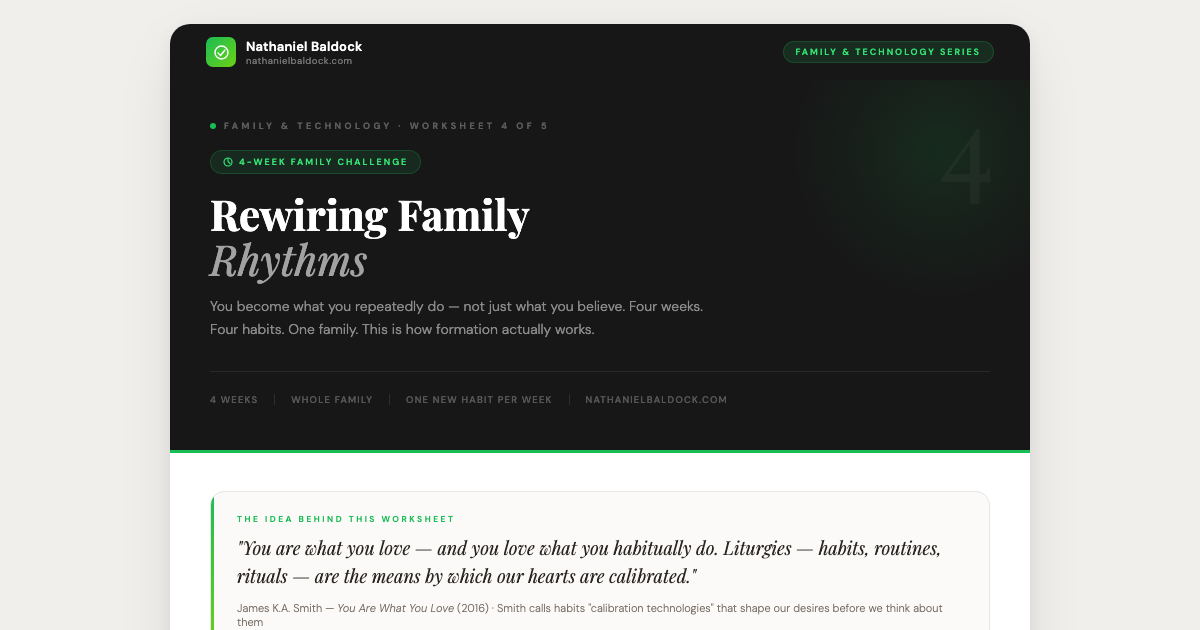
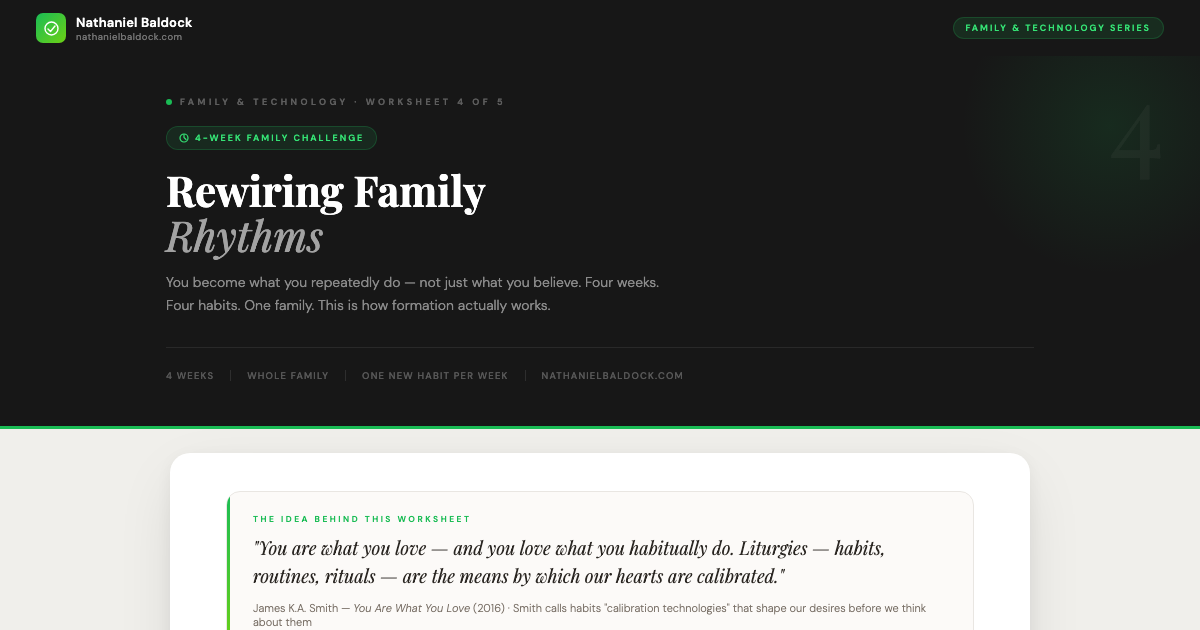
Worksheets: full-width header/hero like articles, narrow body content
Restructure all 11 worksheets so header and hero span full viewport width
(like article pages) while body stays in centered card for readability.
Update thumbnails to reflect new layout.

Made-with: Cursor

diff --git a/client/public/worksheets/rewiring-family-rhythms.html b/client/public/worksheets/rewiring-family-rhythms.html
@@ -46,9 +46,11 @@
 }
 
 html{background:#f0efeb;}
-body{font-family:var(--font-sans);color:var(--fg);padding:24px 16px 48px;}
+body{font-family:var(--font-sans);color:var(--fg);padding:0;}
 
-.page{max-width:860px;margin:0 auto;background:var(--bg);border-radius:20px;overflow:hidden;box-shadow:0 20px 64px -12px rgba(0,0,0,0.13),0 4px 16px rgba(0,0,0,0.05);}
+/* Full-width header + hero (like articles) */
+.worksheet-top{width:100%;}
+.page{max-width:860px;margin:24px auto 48px;padding:0 16px;background:var(--bg);border-radius:20px;overflow:hidden;box-shadow:0 20px 64px -12px rgba(0,0,0,0.13),0 4px 16px rgba(0,0,0,0.05);}
 
 /* SITE HEADER */
 .site-hdr{background:var(--dark);padding:13px 36px;display:flex;align-items:center;justify-content:space-between;}
@@ -58,8 +60,9 @@ body{font-family:var(--font-sans);color:var(--fg);padding:24px 16px 48px;}
 .logo-sub{font-size:9.5px;color:rgba(255,255,255,.4);letter-spacing:.5px;}
 .hdr-badge{background:rgba(34,197,94,.12);border:1px solid rgba(34,197,94,.2);color:hsl(142,76%,55%);font-size:9px;font-weight:600;letter-spacing:2px;text-transform:uppercase;padding:4px 12px;border-radius:20px;}
 
-/* HERO — green accent for this one (positive, action-oriented) */
-.hero{background:var(--dark);padding:40px 40px 44px;position:relative;overflow:hidden;border-bottom:3px solid var(--green);}
+/* HERO — full-width like articles */
+.hero{background:var(--dark);padding:40px 24px 44px;position:relative;overflow:hidden;border-bottom:3px solid var(--green);}
+.hero-inner{max-width:900px;margin:0 auto;padding:0 16px;}
 .hero::before{content:'';position:absolute;top:-80px;right:-60px;width:300px;height:300px;border-radius:50%;background:radial-gradient(circle,hsl(142,76%,42%,.12) 0%,transparent 70%);pointer-events:none;}
 .hero-num{font-family:var(--font-serif);font-size:110px;font-weight:400;color:rgba(255,255,255,.04);position:absolute;top:8px;right:40px;line-height:1;user-select:none;letter-spacing:-4px;}
 .hero-series{font-size:9px;font-weight:600;letter-spacing:3.5px;text-transform:uppercase;color:rgba(255,255,255,.3);margin-bottom:18px;display:flex;align-items:center;gap:8px;}
@@ -213,8 +216,7 @@ hr.div{border:none;border-top:1px solid var(--border);margin:28px 0;}
 </style>
 </head>
 <body>
-<div class="page">
-
+<div class="worksheet-top">
 <!-- SITE HEADER -->
 <div class="site-hdr">
   <div class="logo-row">
@@ -227,6 +229,7 @@ hr.div{border:none;border-top:1px solid var(--border);margin:28px 0;}
 <!-- HERO -->
 <div class="hero">
   <div class="hero-num">4</div>
+  <div class="hero-inner">
   <div class="hero-series"><div class="s-dot"></div>Family &amp; Technology · Worksheet 4 of 5</div>
   <div class="hero-pill">
     <svg width="10" height="10" viewBox="0 0 10 10" fill="none"><path d="M5 1.5v3l2 2" stroke="currentColor" stroke-width="1.2" stroke-linecap="round"/><circle cx="5" cy="5" r="4" stroke="currentColor" stroke-width="1.2"/></svg>
@@ -240,8 +243,11 @@ hr.div{border:none;border-top:1px solid var(--border);margin:28px 0;}
     <span class="mi">One new habit per week</span><div class="msep"></div>
     <span class="mi">nathanielbaldock.com</span>
   </div>
+  </div><!-- /hero-inner -->
 </div>
+</div><!-- /worksheet-top -->
 
+<div class="page">
 <!-- BODY -->
 <div class="body">
 

diff --git a/client/public/worksheets/verify-method.html b/client/public/worksheets/verify-method.html
@@ -47,9 +47,10 @@
 }
 
 html{background:hsl(35,20%,93%);}
-body{font-family:var(--font-sans);color:var(--fg);padding:24px 16px 48px;}
+body{font-family:var(--font-sans);color:var(--fg);padding:0;}
 
-.page{max-width:840px;margin:0 auto;background:var(--bg);border-radius:20px;overflow:hidden;box-shadow:0 20px 64px -12px rgba(0,0,0,0.13),0 4px 16px rgba(0,0,0,0.05);}
+.worksheet-top{width:100%;}
+.page{max-width:840px;margin:24px auto 48px;padding:0 16px;background:var(--bg);border-radius:20px;overflow:hidden;box-shadow:0 20px 64px -12px rgba(0,0,0,0.13),0 4px 16px rgba(0,0,0,0.05);}
 
 /* ── SITE HEADER — identical to rest of series ── */
 .site-hdr{background:var(--dark);padding:13px 36px;display:flex;align-items:center;justify-content:space-between;}
@@ -334,7 +335,7 @@ hr.div{border:none;border-top:1px solid var(--border);margin:28px 0;}
 </style>
 </head>
 <body>
-<div class="page">
+<div class="worksheet-top">
 
 <!-- SITE HEADER — identical brand wrapper -->
 <div class="site-hdr">
@@ -374,7 +375,9 @@ hr.div{border:none;border-top:1px solid var(--border);margin:28px 0;}
     <span class="mi">nathanielbaldock.com</span>
   </div>
 </div>
+</div><!-- /worksheet-top -->
 
+<div class="page">
 <!-- BODY -->
 <div class="body">
 

diff --git a/client/public/worksheets/attachment-audit.html b/client/public/worksheets/attachment-audit.html
@@ -44,9 +44,10 @@
 }
 
 html{background:#f0efeb;}
-body{font-family:var(--font-sans);color:var(--fg);padding:24px 16px 48px;min-height:100vh;}
+body{font-family:var(--font-sans);color:var(--fg);padding:0;min-height:100vh;}
 
-.page{max-width:860px;margin:0 auto;background:var(--bg);border-radius:20px;overflow:hidden;box-shadow:0 20px 64px -12px rgba(0,0,0,0.13),0 4px 16px rgba(0,0,0,0.05);}
+.worksheet-top{width:100%;}
+.page{max-width:860px;margin:24px auto 48px;padding:0 16px;background:var(--bg);border-radius:20px;overflow:hidden;box-shadow:0 20px 64px -12px rgba(0,0,0,0.13),0 4px 16px rgba(0,0,0,0.05);}
 
 /* ── SITE HEADER ── */
 .site-hdr{background:var(--dark-hdr);padding:13px 36px;display:flex;align-items:center;justify-content:space-between;}
@@ -251,7 +252,7 @@ hr.div{border:none;border-top:1px solid var(--border);margin:28px 0;}
 </style>
 </head>
 <body>
-<div class="page">
+<div class="worksheet-top">
 
 <!-- SITE HEADER -->
 <div class="site-hdr">
@@ -287,7 +288,9 @@ hr.div{border:none;border-top:1px solid var(--border);margin:28px 0;}
     <span class="meta-item">nathanielbaldock.com</span>
   </div>
 </div>
+</div><!-- /worksheet-top -->
 
+<div class="page">
 <!-- BODY -->
 <div class="body">
 

diff --git a/client/public/worksheets/prompt-engineering.html b/client/public/worksheets/prompt-engineering.html
@@ -45,9 +45,10 @@
 }
 
 html{background:hsl(35,20%,93%);}
-body{font-family:var(--font-sans);color:var(--fg);padding:24px 16px 48px;}
+body{font-family:var(--font-sans);color:var(--fg);padding:0;}
 
-.page{max-width:840px;margin:0 auto;background:var(--bg);border-radius:20px;overflow:hidden;box-shadow:0 20px 64px -12px rgba(0,0,0,0.13),0 4px 16px rgba(0,0,0,0.05);}
+.worksheet-top{width:100%;}
+.page{max-width:840px;margin:24px auto 48px;padding:0 16px;background:var(--bg);border-radius:20px;overflow:hidden;box-shadow:0 20px 64px -12px rgba(0,0,0,0.13),0 4px 16px rgba(0,0,0,0.05);}
 
 /* ── SITE HEADER — identical brand wrapper ── */
 .site-hdr{background:var(--dark);padding:13px 36px;display:flex;align-items:center;justify-content:space-between;}
@@ -319,7 +320,7 @@ hr.div{border:none;border-top:1px solid var(--border);margin:28px 0;}
 </style>
 </head>
 <body>
-<div class="page">
+<div class="worksheet-top">
 
 <!-- SITE HEADER -->
 <div class="site-hdr">
@@ -352,7 +353,9 @@ hr.div{border:none;border-top:1px solid var(--border);margin:28px 0;}
     <span class="mi">nathanielbaldock.com</span>
   </div>
 </div>
+</div><!-- /worksheet-top -->
 
+<div class="page">
 <!-- BODY -->
 <div class="body">
 

diff --git a/client/public/worksheets/family-ai-agreement.html b/client/public/worksheets/family-ai-agreement.html
@@ -41,22 +41,10 @@
 }
 
 html{background:#f0efeb;}
-body{
-  font-family:var(--font-sans);
-  color:var(--fg);
-  padding:24px 16px 48px;
-  min-height:100vh;
-}
+body{font-family:var(--font-sans);color:var(--fg);padding:0;min-height:100vh;}
 
-/* PAGE WRAPPER */
-.page{
-  max-width:860px;
-  margin:0 auto;
-  background:var(--bg);
-  border-radius:20px;
-  overflow:hidden;
-  box-shadow:0 20px 64px -12px rgba(0,0,0,0.13),0 4px 16px rgba(0,0,0,0.05);
-}
+.worksheet-top{width:100%;}
+.page{max-width:860px;margin:24px auto 48px;padding:0 16px;background:var(--bg);border-radius:20px;overflow:hidden;box-shadow:0 20px 64px -12px rgba(0,0,0,0.13),0 4px 16px rgba(0,0,0,0.05);}
 
 /* ── SITE HEADER ── */
 .site-hdr{
@@ -332,8 +320,7 @@ hr.div{border:none;border-top:1px solid var(--border);margin:28px 0;}
 </style>
 </head>
 <body>
-<div class="page">
-
+<div class="worksheet-top">
 <!-- SITE HEADER -->
 <div class="site-hdr">
   <div class="logo-row">
@@ -368,7 +355,9 @@ hr.div{border:none;border-top:1px solid var(--border);margin:28px 0;}
     <span class="meta-item">nathanielbaldock.com</span>
   </div>
 </div>
+</div><!-- /worksheet-top -->
 
+<div class="page">
 <!-- BODY -->
 <div class="body">
 

diff --git a/client/public/worksheets/what-is-school-for.html b/client/public/worksheets/what-is-school-for.html
@@ -33,9 +33,10 @@
 }
 
 html{background:hsl(35,20%,93%);}
-body{font-family:var(--font-sans);color:var(--fg);padding:24px 16px 48px;}
+body{font-family:var(--font-sans);color:var(--fg);padding:0;}
 
-.page{max-width:840px;margin:0 auto;background:var(--bg);border-radius:20px;overflow:hidden;box-shadow:0 20px 64px -12px rgba(0,0,0,0.13),0 4px 16px rgba(0,0,0,0.05);}
+.worksheet-top{width:100%;}
+.page{max-width:840px;margin:24px auto 48px;padding:0 16px;background:var(--bg);border-radius:20px;overflow:hidden;box-shadow:0 20px 64px -12px rgba(0,0,0,0.13),0 4px 16px rgba(0,0,0,0.05);}
 
 /* ── SITE HEADER ── */
 .site-hdr{background:var(--dark);padding:13px 36px;display:flex;align-items:center;justify-content:space-between;}
@@ -342,7 +343,7 @@ hr.div{border:none;border-top:1px solid var(--border);margin:28px 0;}
 </style>
 </head>
 <body>
-<div class="page">
+<div class="worksheet-top">
 
 <!-- SITE HEADER -->
 <div class="site-hdr">
@@ -378,7 +379,9 @@ hr.div{border:none;border-top:1px solid var(--border);margin:28px 0;}
     <span class="mi">nathanielbaldock.com</span>
   </div>
 </div>
+</div><!-- /worksheet-top -->
 
+<div class="page">
 <!-- BODY -->
 <div class="body">
 

diff --git a/client/public/worksheets/digital-liturgy-audit.html b/client/public/worksheets/digital-liturgy-audit.html
@@ -42,9 +42,10 @@
 }
 
 html{background:#ebebE5;}
-body{font-family:var(--font-sans);color:var(--fg);padding:24px 16px 48px;}
+body{font-family:var(--font-sans);color:var(--fg);padding:0;}
 
-.page{max-width:820px;margin:0 auto;background:var(--bg);border-radius:20px;overflow:hidden;box-shadow:0 20px 64px -12px rgba(0,0,0,0.13),0 4px 16px rgba(0,0,0,0.05);}
+.worksheet-top{width:100%;}
+.page{max-width:820px;margin:24px auto 48px;padding:0 16px;background:var(--bg);border-radius:20px;overflow:hidden;box-shadow:0 20px 64px -12px rgba(0,0,0,0.13),0 4px 16px rgba(0,0,0,0.05);}
 
 /* ── SITE HEADER ── */
 .site-hdr{background:var(--dark);padding:13px 36px;display:flex;align-items:center;justify-content:space-between;}
@@ -332,7 +333,7 @@ hr.div{border:none;border-top:1px solid var(--border);margin:32px 0;}
 </style>
 </head>
 <body>
-<div class="page">
+<div class="worksheet-top">
 
 <!-- SITE HEADER -->
 <div class="site-hdr">
@@ -363,7 +364,9 @@ hr.div{border:none;border-top:1px solid var(--border);margin:32px 0;}
     <span class="mi">nathanielbaldock.com</span>
   </div>
 </div>
+</div><!-- /worksheet-top -->
 
+<div class="page">
 <!-- BODY -->
 <div class="body">
 

diff --git a/client/public/worksheets/healthy-ai-use.html b/client/public/worksheets/healthy-ai-use.html
@@ -48,9 +48,10 @@
 }
 
 html{background:#e0ddd8;}
-body{font-family:var(--font-sans);color:var(--fg);padding:24px 16px 48px;}
+body{font-family:var(--font-sans);color:var(--fg);padding:0;}
 
-.page{max-width:860px;margin:0 auto;background:var(--bg);border-radius:20px;overflow:hidden;box-shadow:0 20px 64px -12px rgba(0,0,0,0.13),0 4px 16px rgba(0,0,0,0.05);}
+.worksheet-top{width:100%;}
+.page{max-width:860px;margin:24px auto 48px;padding:0 16px;background:var(--bg);border-radius:20px;overflow:hidden;box-shadow:0 20px 64px -12px rgba(0,0,0,0.13),0 4px 16px rgba(0,0,0,0.05);}
 
 /* SITE HEADER */
 .site-hdr{background:var(--dark);padding:13px 36px;display:flex;align-items:center;justify-content:space-between;}
@@ -345,7 +346,7 @@ hr.div{border:none;border-top:1px solid var(--border);margin:30px 0;}
 </style>
 </head>
 <body>
-<div class="page">
+<div class="worksheet-top">
 
 <!-- SITE HEADER -->
 <div class="site-hdr">
@@ -402,7 +403,9 @@ hr.div{border:none;border-top:1px solid var(--border);margin:30px 0;}
     <span class="mi">nathanielbaldock.com</span>
   </div>
 </div>
+</div><!-- /worksheet-top -->
 
+<div class="page">
 <!-- BODY -->
 <div class="body">
 

diff --git a/client/public/worksheets/scrolling-to-sabbath.html b/client/public/worksheets/scrolling-to-sabbath.html
@@ -44,9 +44,10 @@
 }
 
 html{background:#e4e2dc;}
-body{font-family:var(--font-sans);color:var(--fg);padding:24px 16px 48px;}
+body{font-family:var(--font-sans);color:var(--fg);padding:0;}
 
-.page{max-width:820px;margin:0 auto;background:var(--bg);border-radius:20px;overflow:hidden;box-shadow:0 20px 64px -12px rgba(0,0,0,0.13),0 4px 16px rgba(0,0,0,0.05);}
+.worksheet-top{width:100%;}
+.page{max-width:820px;margin:24px auto 48px;padding:0 16px;background:var(--bg);border-radius:20px;overflow:hidden;box-shadow:0 20px 64px -12px rgba(0,0,0,0.13),0 4px 16px rgba(0,0,0,0.05);}
 
 /* SITE HEADER */
 .site-hdr{background:var(--dark);padding:13px 36px;display:flex;align-items:center;justify-content:space-between;}
@@ -316,7 +317,7 @@ hr.div{border:none;border-top:1px solid var(--border);margin:32px 0;}
 </style>
 </head>
 <body>
-<div class="page">
+<div class="worksheet-top">
 
 <!-- SITE HEADER -->
 <div class="site-hdr">
@@ -355,7 +356,9 @@ hr.div{border:none;border-top:1px solid var(--border);margin:32px 0;}
     <span class="mi">nathanielbaldock.com</span>
   </div>
 </div>
+</div><!-- /worksheet-top -->
 
+<div class="page">
 <!-- BODY -->
 <div class="body">
 

diff --git a/client/public/worksheets/think-without-assistance.html b/client/public/worksheets/think-without-assistance.html
@@ -33,9 +33,10 @@
 }
 
 html{background:#e8e6e0;}
-body{font-family:var(--font-sans);color:var(--fg);padding:24px 16px 48px;}
+body{font-family:var(--font-sans);color:var(--fg);padding:0;}
 
-.page{max-width:820px;margin:0 auto;background:var(--bg);border-radius:20px;overflow:hidden;box-shadow:0 20px 64px -12px rgba(0,0,0,0.13),0 4px 16px rgba(0,0,0,0.05);}
+.worksheet-top{width:100%;}
+.page{max-width:820px;margin:24px auto 48px;padding:0 16px;background:var(--bg);border-radius:20px;overflow:hidden;box-shadow:0 20px 64px -12px rgba(0,0,0,0.13),0 4px 16px rgba(0,0,0,0.05);}
 
 /* SITE HEADER */
 .site-hdr{background:var(--dark);padding:13px 36px;display:flex;align-items:center;justify-content:space-between;}
@@ -303,7 +304,7 @@ hr.div{border:none;border-top:1px solid var(--border);margin:32px 0;}
 </style>
 </head>
 <body>
-<div class="page">
+<div class="worksheet-top">
 
 <!-- SITE HEADER -->
 <div class="site-hdr">
@@ -339,7 +340,9 @@ hr.div{border:none;border-top:1px solid var(--border);margin:32px 0;}
     </div>
   </div>
 </div>
+</div><!-- /worksheet-top -->
 
+<div class="page">
 <!-- BODY -->
 <div class="body">
 

diff --git a/client/public/worksheets/who-is-raising-our-kids.html b/client/public/worksheets/who-is-raising-our-kids.html
@@ -36,11 +36,13 @@
 }
 
 html{background:#f0efeb;}
-body{font-family:var(--font-sans);color:var(--fg);padding:24px 16px 48px;min-height:100vh;}
+body{font-family:var(--font-sans);color:var(--fg);padding:0;min-height:100vh;}
 
-/* PAGE */
+/* Full-width header + hero (like articles) */
+.worksheet-top{width:100%;}
+/* PAGE — body content only */
 .page{
-  max-width:860px;margin:0 auto;
+  max-width:860px;margin:24px auto 48px;padding:0 16px;
   background:var(--bg);border-radius:20px;overflow:hidden;
   box-shadow:0 20px 64px -12px rgba(0,0,0,0.13),0 4px 16px rgba(0,0,0,0.05);
 }
@@ -177,8 +179,7 @@ hr.div{border:none;border-top:1px solid var(--border);margin:28px 0;}
 </style>
 </head>
 <body>
-<div class="page">
-
+<div class="worksheet-top">
 <!-- SITE HEADER -->
 <div class="site-hdr">
   <div class="logo-row">
@@ -213,7 +214,9 @@ hr.div{border:none;border-top:1px solid var(--border);margin:28px 0;}
     <span class="meta-item">nathanielbaldock.com</span>
   </div>
 </div>
+</div><!-- /worksheet-top -->
 
+<div class="page">
 <!-- BODY -->
 <div class="body">
 
